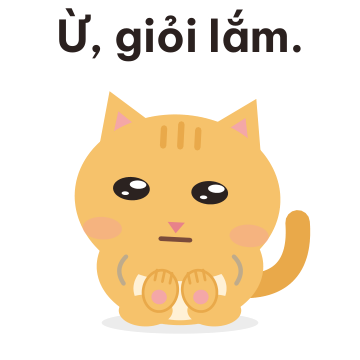
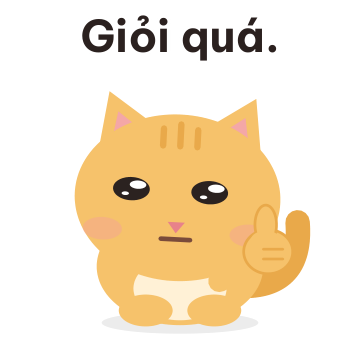
Stickers fifth pass: sleepy 04, rain cloud clear of the text, clapping 07, "Giỏi quá." with a thumbs-up for 16

diff --git a/docs/plans/assets/stickers/build_stickers.py b/docs/plans/assets/stickers/build_stickers.py
@@ -294,6 +294,17 @@ def paw(x, y, rx=8, ry=7, rot=0, pad=False):
     return g + "</g>"
 
 
+def thumbs_up(x, y):
+    """A raised fist with the thumb up, on an arm from the shoulder (sticker art, the rig has no such gesture)."""
+    o = stroke_path(f"M76 98 L{f(x - 2)} {f(y + 3)}", FUR, 9)
+    o += f'<ellipse cx="{f(x)}" cy="{f(y)}" rx="10" ry="9" fill="{FUR}" stroke="{DARK}" stroke-width="1.1"/>'
+    o += f'<ellipse cx="{f(x - 1)}" cy="{f(y - 11)}" rx="4.4" ry="8" fill="{FUR}" stroke="{DARK}" stroke-width="1.1"/>'
+    o += f'<ellipse cx="{f(x - 1)}" cy="{f(y - 5)}" rx="6" ry="3.5" fill="{FUR}"/>'
+    for dy in (-1, 3):
+        o += f'<path d="M{f(x - 2)} {f(y + dy)} L{f(x + 6)} {f(y + dy)}" stroke="{DARK}" stroke-width="1.1" stroke-linecap="round"/>'
+    return o
+
+
 def arcs(*specs):
     return "".join(stroke_path(d, "#b9a98f", 1.8, 0.9) for d in specs)
 
@@ -368,19 +379,19 @@ STICKERS = [
     ("01", "Chào buổi sáng!", lambda: cat(STRETCH_S, LOOK["wake"]), dict(scale=2.8, dy=-14)),
     ("02", "Sướng quá~", lambda: cat(STAND_F, LOOK["purr"])),
     ("03", "Đời là thế.", lounging, dict(scale=2.5, dx=2, dy=0)),
-    ("04", "Buồn ngủ…", lambda: cat(SIT_F, LOOK["drowsy"])),
+    ("04", "Buồn ngủ…", lambda: cat(SIT_F, dict(LOOK["drowsy"], lid=0.06, roll=-11, dy=9, droop=0.5, mouth="o", cheek=0.8, z=1))),
     ("05", "Hừm.", lambda: cat(SIT_F, LOOK["huff"]) + puffs()),
     ("06", "Quá sức mèo rồi.", lambda: cat(STAND_F, LOOK["sad"])),
-    ("07", "Giỏi quá!", lambda: confetti() + cat(STAND_F, LOOK["happy"])),
+    ("07", "Giỏi quá!", lambda: confetti() + cat(STAND_F, LOOK["happy"]) + paw(54, 96, 7, 8.5, 28, True) + paw(66, 96, 7, 8.5, -28, True) + arcs("M42 82 q-6 4 -3 12", "M78 82 q6 4 3 12", "M38 74 q-8 5 -4 15", "M82 74 q8 5 4 15")),
     ("08", "Làm chung nhé?", lambda: cat(STAND_F, dict(LOOK["curious"], roll=12, wide=0.6, cheek=0.7)) + stroke_path("M38 98 L22 74", FUR, 10) + paw(20, 66, 8, 10, -12, True) + arcs("M8 60 q-5 6 -1 13", "M4 52 q-7 8 -2 18")),
     ("09", "Ngủ ngon.", curled_up, dict(scale=2.7, dy=-14)),
-    ("10", "Trời mưa rồi.", lambda: cat(SIT_F, dict(LOOK["curious"], roll=-4, gx=0, gy=2, wide=0.2)) + wrap(cloud_and_rain(), 18, -16, 0.8), dict(scale=2.1, dy=22)),
+    ("10", "Trời mưa rồi.", lambda: cat(SIT_F, dict(LOOK["curious"], roll=-4, gx=0, gy=2, wide=0.2)) + wrap(cloud_and_rain(), 18, -16, 0.8), dict(scale=1.9, dy=40)),
     ("11", "Xin lỗi nhé.", lambda: cat(STAND_F, dict(LOOK["sad"], roll=-8, dy=6, lid=0.08))),
     ("12", "Cảm ơn nha!", lambda: hearts() + cat(STAND_F, dict(LOOK["purr"], roll=-3, dy=0))),
     ("13", "Ơ!", lambda: cat(STAND_F, LOOK["gasp"])),
     ("14", "Để mình nghĩ…", lambda: cat(STAND_F, dict(LOOK["think"], roll=6, dots=0)) + paw(70, 90, 7, 8.5, 22) + ell(88, 32, 2.8, 2.8, "#8a8a8a") + ell(97, 25, 3.8, 3.8, "#8a8a8a") + ell(108, 16, 5, 5, "#8a8a8a", 0, 0.9)),
     ("15", "Hì hì.", lambda: cat(STAND_F, dict(LOOK["purr"], roll=8, dy=0, mouth="smile", cheek=1.0)) + paw(66, 86, 7.5, 9.5, 28) + arcs("M96 52 q6 -3 7 -10", "M102 62 q7 -2 9 -9")),
-    ("16", "Ừ, giỏi lắm.", lambda: cat(STAND_F, dict(LOOK["smirk"], lid=0.5, gx=-4, roll=3, mouth="flat", cheek=0.4)) + paw(52, 102, 7, 8.5, 12, True) + paw(68, 102, 7, 8.5, -12, True) + arcs("M38 88 q-5 5 -1 11", "M82 88 q5 5 1 11")),
+    ("16", "Giỏi quá.", lambda: cat(STAND_F, dict(LOOK["smirk"], lid=0.5, gx=-4, roll=3, mouth="flat", cheek=0.4)) + thumbs_up(96, 86)),
     ("17", "Ai đợi đâu.", lambda: cat(STAND_S, dict(LOOK["rest"], lid=0.7, roll=-6, mouth="smile", cheek=1.0, gx=-3))),
 ]
 

diff --git a/spec/06-character-and-movement.md b/spec/06-character-and-movement.md
@@ -170,7 +170,7 @@ Rule: an expression is **"in the app"** only when a state already draws it. Wher
 | 1 | Good morning | `wake` (stretch, eyes shut, yawning); or `happy` for a bright face | `stretch` side / `stand` front | **Exact** for the stretch; a front-facing greeting is `happy` |
 | 2 | Head rub / being scratched | `purr` (eyes closed in bliss, head rolled, slow sway) | `stand` front | **Exact** (the head-scratch reaction; quirk 2) |
 | 3 | A cat at ease, "thinking about life" (replaces the belly request, ADR-0050) | none (the app cat never lies back with its legs crossed) | none | **Sticker-only art**, text "Đời là thế." |
-| 4 | Dozing off | `drowsy` (sits, lid half down, yawn); `sleep` when fully asleep | `sit` front / `loaf` | **Exact**: `drowsy` for a nod-off, `sleep` for asleep with the "z" |
+| 4 | Dozing off | `drowsy` (sits, lid half down, yawn); `sleep` when fully asleep | `sit` front / `loaf` | **Exact body; the face is the `sleep` face** (closed eyes, a small yawn, a "z") because the half-lidded `drowsy` eyes did not read as sleepy at sticker size (the author, 2026-11-11) |
 | 5 | The glare when teased | `huff` (the belly-trap flinch: half-lidded, flat mouth, head tilted) | `stand` front | **Exact** for the look; `smirk` is the playful, not cross, variant |
 | 6 | "Too big for me" | none dedicated. The refusal (section 1.4) is a spoken line with a mood tag; the nearest faces are `sad` (ears down) or `huff` | `stand` front | **Partial.** Pose and wording are open (questions 2 and B) |
 | 7 | Celebrating a streak | `happy` (eyes closed in a big smile, open mouth); a milestone line | `stand` front | **Exact** for the face; any confetti is sticker-only art |

diff --git a/docs/decisions/0050-sticker-second-pass-sarcasm-lounging-and-mochi-sleep.md b/docs/decisions/0050-sticker-second-pass-sarcasm-lounging-and-mochi-sleep.md
@@ -17,6 +17,9 @@ The author found sticker 3 (belly) and 9 (good night, side-on loaf) unnatural, a
 ## Later the same day
 The author found the cat lying back with crossed legs not relaxed enough, three softer poses were drawn (`docs/plans/assets/stickers/direction-v1/03_options.png`), and he judged all three harder to read than the first, so **the crossed-leg version stays** as sticker 03 ("Đời là thế."). The three options are kept only as a record.
 
+## Later the same day (2)
+After looking at the set the author asked for: 04 "Buồn ngủ…" to look sleepy (now closed eyes, a small yawn, a tipped head and a "z"); 10 "Trời mưa rồi." with the cloud no longer under the text; 07 "Giỏi quá!" with the paws clapping; and 16 "Ừ, giỏi lắm." changed to **"Giỏi quá."** with a thumbs-up. 16 keeps its half-lidded, flat-mouthed face, so it still teases (a deadpan thumbs-up); if that does not read as dry at phone size, the sarcasm share is 4 of 17 (about 24%). 07 and 16 now carry nearly the same words ("Giỏi quá!" with a clap, "Giỏi quá." with a thumbs-up): a point to look at again.
+
 ## Consequences
 - Spec 06 section 7 and the set list are updated: 16 are in the app (matched to a state) and the sticker-only art is now 03, 09 and the cloud of 10; the set is 17 stickers.
 - The sarcasm texts have not been through the author's ear for Vietnamese banter (backlog E3).

diff --git a/docs/plans/sticker-set-v0.md b/docs/plans/sticker-set-v0.md
@@ -31,6 +31,8 @@ All 15 stickers, the icon, the preview and the 9 banners exist as PNG in [`asset
 
 **Third pass (2026-11-11):** the six stickers that looked alike at 120 px now differ by silhouette or gesture: 05 sits and puffs, 08 beckons with a raised paw, 14 rests a paw on the chin under a thought bubble, 15 giggles behind a paw, 16 claps slowly, 17 turns side-on (see [`six_distinct.png`](assets/stickers/direction-v1/six_distinct.png)); 03 lost its thought dots. The paws and arcs are sticker art, not rig poses.
 
+**Fifth pass (2026-11-11, the author's notes):** 04 is sleepy (closed eyes, a small yawn, head tipped, "z"); 10 has the cloud below the text; 07 claps; 16 is "Giỏi quá." with a thumbs-up and the deadpan face (ADR-0050). The thumbs-up and the clap are sticker art.
+
 **Fourth pass (2026-11-11), the weak points of the third:** the paws are now rounded paws with three toe lines (a pink pad where the palm faces us: 08, 16) instead of outlined rings; 14's paw sits at the chin; 17's mouth is a small smile (the flat line stuck out of the side face); 01, 03 and 09 are drawn larger; the rain cloud in 10 is darker with stronger drops; 11 is bowed less so the body shows. Still weak: the paws are still simple shapes, the sad ears (06) fold sideways, and nothing has been seen on a phone yet (V-94).
 
 ## Also required by Zalo (ST-3 and ST-5)
